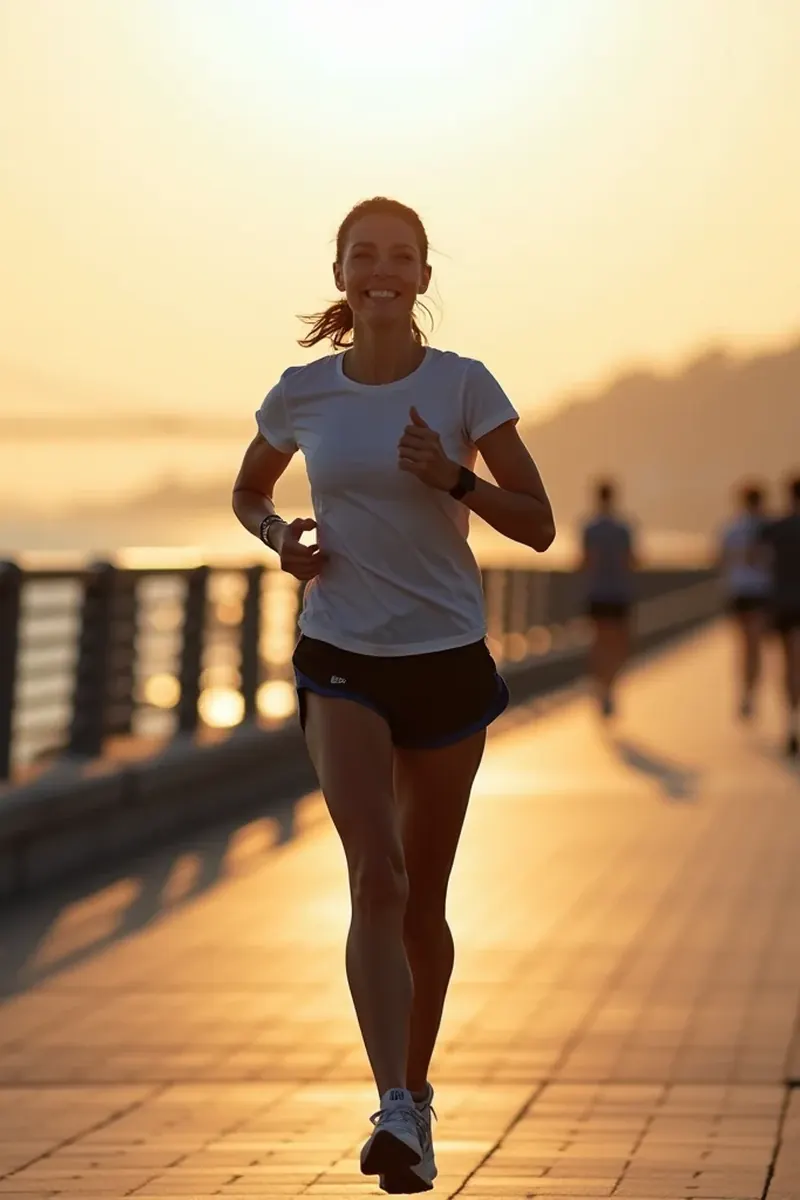
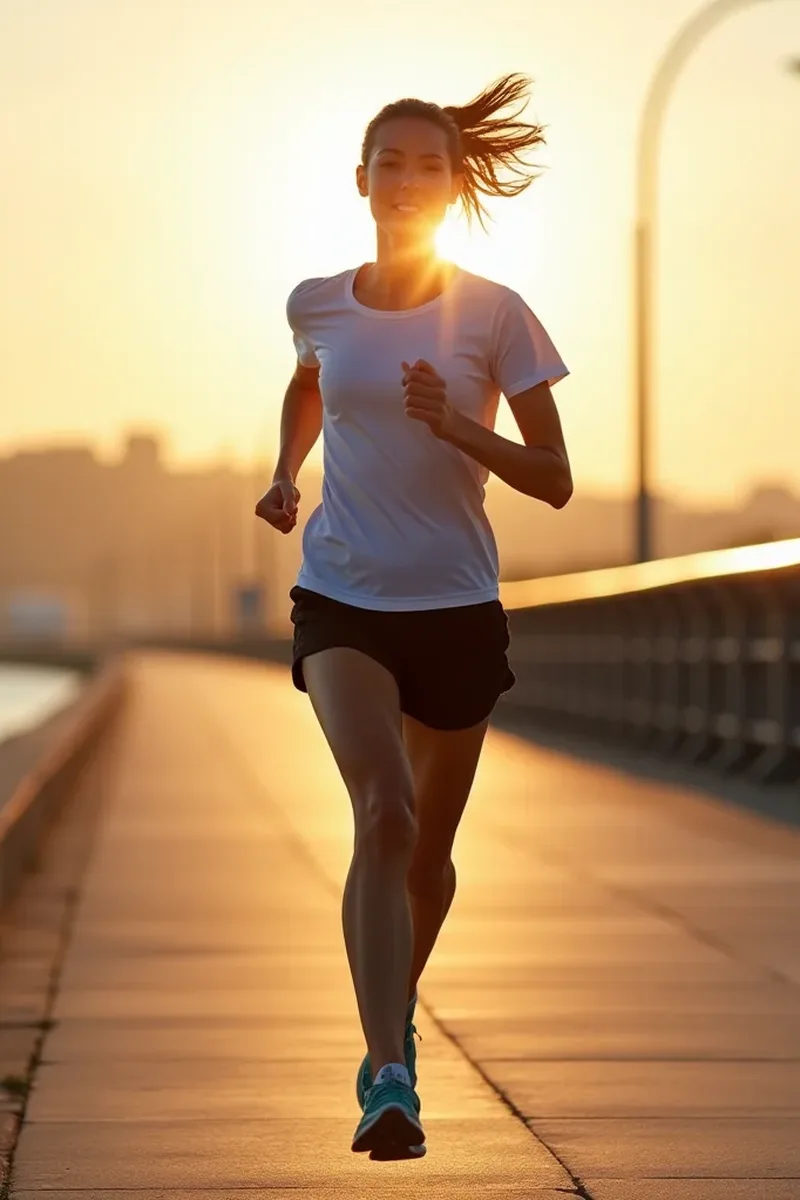
RW-20: floor assets re-derived — 9 verified kept, 12 replaced, FREEZING×RAIN removed
Every bundled floor asset's provenance was re-derived by pixel
comparison against the pool (evidence: release-prep/rw20-fix-
execution-2026-11-02.md). Kept: sources that are adjudicated MATCH,
person_count == 1, and point-grain-correct at the bracket cold-end
prescription. Replaced from same-cell verified-good stock: freezing_
clear, cold_clear, cold_rain, cool_clear, cool_cloudy, cool_rain,
cool_snow, mild_clear, mild_cloudy, mild_snow, warm_rain, hot_clear
(several originals were multi-person photos; cool_clear's was the
retired MISMATCH row from the field failure). Removed: freezing_rain
— all 77 FREEZING rain/rainy pool rows are rejected, so no honest
floor asset exists; the resolver falls back to freezing_clear.
Both fallback tables (repository + engine selector) and the coverage
test updated to 21 cells.

diff --git a/RunWear-android/shared/src/test/java/com/runwear/shared/data/repository/HeroFallbackImagesTest.kt b/RunWear-android/shared/src/test/java/com/runwear/shared/data/repository/HeroFallbackImagesTest.kt
@@ -27,16 +27,23 @@ class HeroFallbackImagesTest {
     private val table = HeroImageRepository.FALLBACK_IMAGES_2D
 
     @Test
-    fun `table coverage is unchanged - 22 cells, snow only from MILD down`() {
+    fun `table coverage - 21 cells after the RW-20 re-derivation`() {
+        // RW-20 (2026-11-02): the FREEZING×RAIN cell was removed — its
+        // pool holds zero verified-good photos (all 77 FREEZING
+        // rain/rainy rows are rejected), so no honest floor asset
+        // exists for it. Every other cell's asset was re-derived
+        // against an adjudicated-MATCH, single-person, point-grain-
+        // correct source row (9 kept, 12 replaced).
         assertEquals(6, table.size)
         assertEquals(3, table.getValue(TempBracket.HOT).size)
         assertEquals(3, table.getValue(TempBracket.WARM).size)
         assertEquals(4, table.getValue(TempBracket.MILD).size)
         assertEquals(4, table.getValue(TempBracket.COOL).size)
         assertEquals(4, table.getValue(TempBracket.COLD).size)
-        assertEquals(4, table.getValue(TempBracket.FREEZING).size)
+        assertEquals(3, table.getValue(TempBracket.FREEZING).size)
         assertFalse(table.getValue(TempBracket.HOT).containsKey(HeroWeatherCondition.SNOW))
         assertFalse(table.getValue(TempBracket.WARM).containsKey(HeroWeatherCondition.SNOW))
+        assertFalse(table.getValue(TempBracket.FREEZING).containsKey(HeroWeatherCondition.RAIN))
     }
 
     @Test
@@ -96,12 +103,16 @@ class HeroFallbackImagesTest {
     fun `resolution chain is unchanged - missing cells fall back to bracket CLEAR then MILD CLEAR`() {
         val hotClear = table.getValue(TempBracket.HOT).getValue(HeroWeatherCondition.CLEAR)
         val warmClear = table.getValue(TempBracket.WARM).getValue(HeroWeatherCondition.CLEAR)
+        val freezingClear = table.getValue(TempBracket.FREEZING).getValue(HeroWeatherCondition.CLEAR)
         // HOT×SNOW and WARM×SNOW are not defined cells: they resolve to the
         // bracket's CLEAR asset, exactly as with the old stock table.
         assertEquals(hotClear, HeroImageSelector.getWeatherAwareFallback(TempBracket.HOT, HeroWeatherCondition.SNOW))
         assertEquals(hotClear, repository.getWeatherAwareFallback(TempBracket.HOT, HeroWeatherCondition.SNOW))
         assertEquals(warmClear, HeroImageSelector.getWeatherAwareFallback(TempBracket.WARM, HeroWeatherCondition.SNOW))
         assertEquals(warmClear, repository.getWeatherAwareFallback(TempBracket.WARM, HeroWeatherCondition.SNOW))
+        // FREEZING×RAIN (removed by RW-20) resolves to freezing_clear.
+        assertEquals(freezingClear, HeroImageSelector.getWeatherAwareFallback(TempBracket.FREEZING, HeroWeatherCondition.RAIN))
+        assertEquals(freezingClear, repository.getWeatherAwareFallback(TempBracket.FREEZING, HeroWeatherCondition.RAIN))
     }
 
     private fun assetFile(ref: String): File {

diff --git a/RunWear-android/shared/src/main/java/com/runwear/shared/data/repository/HeroImageRepository.kt b/RunWear-android/shared/src/main/java/com/runwear/shared/data/repository/HeroImageRepository.kt
@@ -382,6 +382,15 @@ class HeroImageRepository @Inject constructor() {
          * Unsplash stock URLs. Keep in sync with HeroImageSelector's copy of this
          * table in the engine module (a unit test asserts the two agree).
          *
+         * RW-20 (2026-11-02): every asset's provenance was re-derived by
+         * pixel comparison against the pool. 9 assets verified against
+         * adjudicated-MATCH, single-person, point-grain-correct source
+         * rows; 12 were replaced from such rows in the same cell (their
+         * sources were retired, mismatched, multi-person, or merely
+         * UNCERTAIN); the FREEZING×RAIN cell was removed — its pool
+         * holds no verified-good photo at all. Provenance record:
+         * release-prep/rw20-fix-execution-2026-11-02.md.
+         *
          * Image selection:
          * - CLEAR: Sunny, bright conditions
          * - CLOUDY: Overcast, gray sky
@@ -424,11 +433,13 @@ class HeroImageRepository @Inject constructor() {
                 HeroWeatherCondition.RAIN to "file:///android_asset/hero_fallback/cold_rain.webp", // Cold rain/sleet
                 HeroWeatherCondition.SNOW to "file:///android_asset/hero_fallback/cold_snow.webp" // Snowy run
             ),
-            // FREEZING (<20°F) - All conditions possible
+            // FREEZING (<20°F) - RAIN cell REMOVED by RW-20 (2026-11-02):
+            // the cell's pool holds zero verified-good photos (all 77
+            // FREEZING rain/rainy rows are rejected), so no honest floor
+            // asset exists; the resolver falls back to freezing_clear.
             TempBracket.FREEZING to mapOf(
                 HeroWeatherCondition.CLEAR to "file:///android_asset/hero_fallback/freezing_clear.webp", // Winter gear sunny
                 HeroWeatherCondition.CLOUDY to "file:///android_asset/hero_fallback/freezing_cloudy.webp", // Freezing overcast
-                HeroWeatherCondition.RAIN to "file:///android_asset/hero_fallback/freezing_rain.webp", // Freezing rain/sleet
                 HeroWeatherCondition.SNOW to "file:///android_asset/hero_fallback/freezing_snow.webp" // Heavy snow
             )
         )

diff --git a/RunWear-android/engine/src/commonMain/kotlin/com/runwear/shared/domain/model/HeroImageModels.kt b/RunWear-android/engine/src/commonMain/kotlin/com/runwear/shared/domain/model/HeroImageModels.kt
@@ -242,11 +242,13 @@ object HeroImageSelector {
             HeroWeatherCondition.RAIN to "file:///android_asset/hero_fallback/cold_rain.webp", // Cold rain/sleet
             HeroWeatherCondition.SNOW to "file:///android_asset/hero_fallback/cold_snow.webp" // Snowy run
         ),
-        // FREEZING (<20°F) - All conditions possible
+        // FREEZING (<20°F) - RAIN cell REMOVED by RW-20 (2026-11-02):
+        // the cell's pool holds zero verified-good photos (all 77
+        // FREEZING rain/rainy rows are rejected), so no honest floor
+        // asset exists; the resolver falls back to freezing_clear.
         TempBracket.FREEZING to mapOf(
             HeroWeatherCondition.CLEAR to "file:///android_asset/hero_fallback/freezing_clear.webp", // Winter gear sunny
             HeroWeatherCondition.CLOUDY to "file:///android_asset/hero_fallback/freezing_cloudy.webp", // Freezing overcast
-            HeroWeatherCondition.RAIN to "file:///android_asset/hero_fallback/freezing_rain.webp", // Freezing rain/sleet
             HeroWeatherCondition.SNOW to "file:///android_asset/hero_fallback/freezing_snow.webp" // Heavy snow
         )
     )
